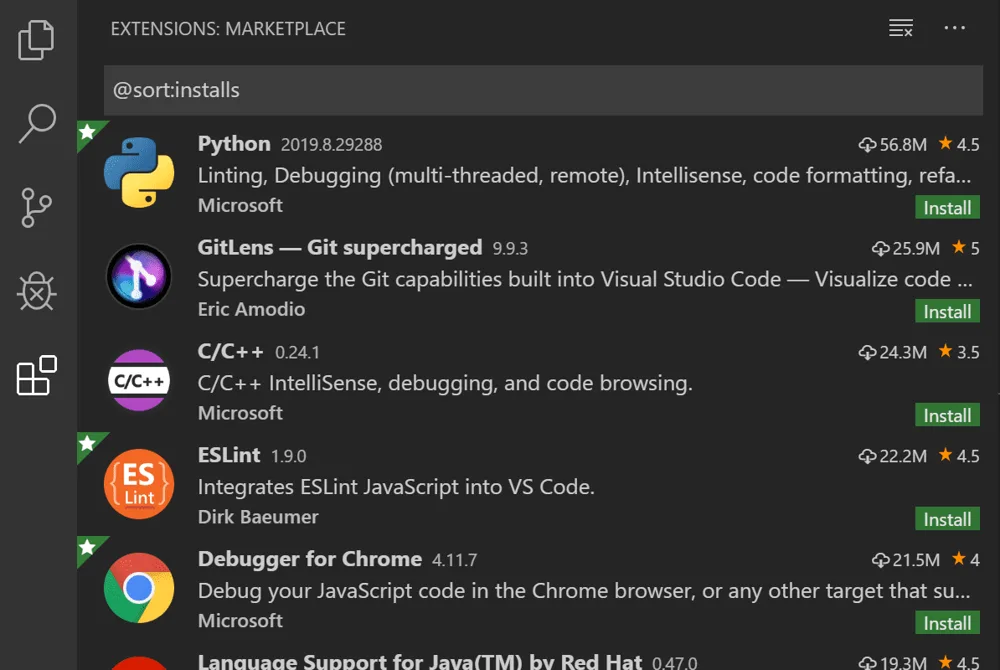
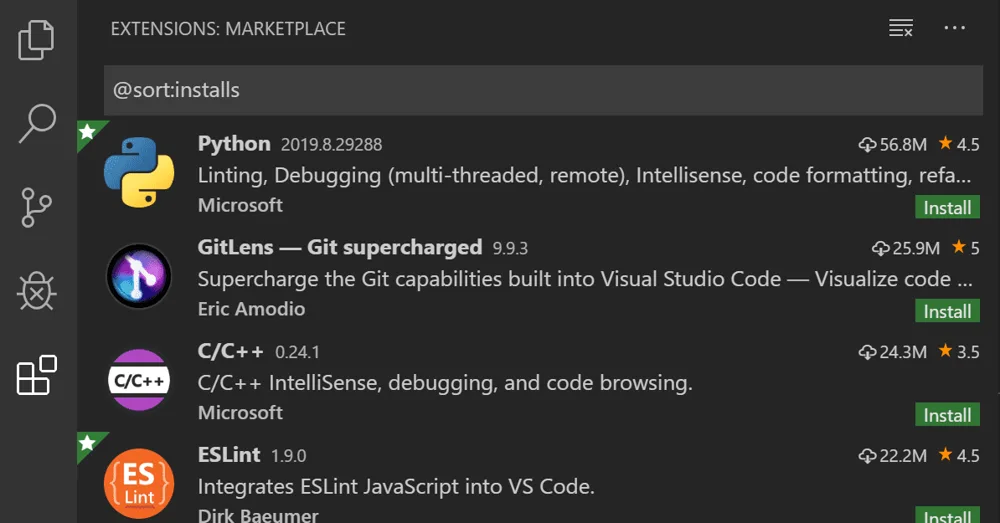
1-2 VS Code · 확장 장 — 덧붙인 설명 · 그림 설명줄 걷어냄, 카드는 이름 · 핵심어만

diff --git a/docs/1-2-setup.html b/docs/1-2-setup.html
@@ -1059,7 +1059,7 @@
   <div class="eyebrow"><span class="tag">1-2</span></div>
   <h2 class="s-title sm">VS Code</h2>
   <div class="rule"></div>
-  <div class="body"><div class="mid"><div class="twocol v1vsgrid"><div><figure class="v1an"><div class="v1anw"><img src="img/vscode_overview.webp" alt="VS Code 화면"/><div class="v1anb" style="--d:0.4s; left:4.1%; top:4.5%; width:14.9%; height:92%"><em>①</em><span>탐색기</span></div><div class="v1anb" style="--d:1.1s; left:19.1%; top:4.5%; width:58%; height:65%"><em>②</em><span>편집기</span></div><div class="v1anb" style="--d:1.8s; left:19.1%; top:69.8%; width:58%; height:27.5%"><em>③</em><span>터미널</span></div><div class="v1anb" style="--d:2.5s; left:77.4%; top:4.5%; width:22.4%; height:92.8%"><em>④</em><span>AI 대화</span></div></div><figcaption>VS Code 화면 · 공식 문서</figcaption></figure></div><div><div class="v2tiles c1"><div class="v2tile" style="--d:0.00s"><b>VS Code</b><span>Microsoft 의 무료 코드 편집기</span></div><div class="v2tile" style="--d:0.08s"><b>① 탐색기</b><span>폴더 안 파일 목록</span></div><div class="v2tile" style="--d:0.16s"><b>② 편집기</b><span>파일 내용 보기 · 고치기</span></div><div class="v2tile" style="--d:0.24s"><b>③ 터미널</b><span>글자 명령으로 컴퓨터를 다루는 창</span></div><div class="v2tile" style="--d:0.32s"><b>④ AI 대화 패널</b><span>Claude Code 확장 설치 뒤 여기서 대화</span></div></div></div></div><div class="src">출처 · <a href="https://github.com/microsoft/vscode-docs" target="_blank" rel="noopener">그림 · VS Code 문서 (Microsoft) · CC BY 3.0</a></div></div></div>
+  <div class="body"><div class="mid"><div class="twocol v1vsgrid"><div><figure class="v1an"><div class="v1anw"><img src="img/vscode_overview.webp" alt="VS Code 화면"/><div class="v1anb" style="--d:0.4s; left:4.1%; top:4.5%; width:14.9%; height:92%"><em>①</em><span>탐색기</span></div><div class="v1anb" style="--d:1.1s; left:19.1%; top:4.5%; width:58%; height:65%"><em>②</em><span>편집기</span></div><div class="v1anb" style="--d:1.8s; left:19.1%; top:69.8%; width:58%; height:27.5%"><em>③</em><span>터미널</span></div><div class="v1anb" style="--d:2.5s; left:77.4%; top:4.5%; width:22.4%; height:92.8%"><em>④</em><span>AI 대화</span></div></div></figure></div><div><div class="v2tiles c1"><div class="v2tile" style="--d:0.00s"><b>① 탐색기</b><span>파일 목록</span></div><div class="v2tile" style="--d:0.08s"><b>② 편집기</b><span>파일 내용</span></div><div class="v2tile" style="--d:0.16s"><b>③ 터미널</b><span>명령어 창</span></div><div class="v2tile" style="--d:0.24s"><b>④ AI 대화</b><span>Claude Code 패널</span></div></div></div></div><div class="src">출처 · <a href="https://github.com/microsoft/vscode-docs" target="_blank" rel="noopener">그림 · VS Code 문서 (Microsoft) · CC BY 3.0</a></div></div></div>
 </section>
 
 <section class="slide lt" data-title="확장 프로그램">
@@ -1067,7 +1067,7 @@
   <div class="eyebrow"><span class="tag">1-2</span></div>
   <h2 class="s-title sm">확장 프로그램</h2>
   <div class="rule"></div>
-  <div class="body"><div class="mid"><div class="twocol v1vsgrid"><div><figure class="v1an"><div class="v1anw"><img src="img/vscode_ext_list.webp" alt="Marketplace 확장 목록"/><div class="v1anb" style="--d:0.4s; left:10.5%; top:9.7%; width:88%; height:7.5%"><em>①</em><span>검색</span></div><div class="v1anb" style="--d:1.1s; left:9%; top:16.5%; width:82%; height:82%"><em>②</em><span>확장 목록</span></div><div class="v1anb" style="--d:1.8s; left:91%; top:28.5%; width:8%; height:66%"><em>③</em><span>Install</span></div></div><figcaption>확장 보기 · Marketplace 목록</figcaption></figure></div><div><div class="v2ms"><div class="v2mh"><span>비유</span><i></i><span>VS Code</span></div><div class="v2m" style="--d:0.00s"><div class="a">휴대폰</div><i>→</i><div class="b"><b>VS Code</b><small>기본 기능만 든 상태</small></div></div><div class="v2m" style="--d:0.12s"><div class="a">앱 스토어</div><i>→</i><div class="b"><b>Marketplace</b><small>확장을 찾고 설치하는 곳</small></div></div><div class="v2m" style="--d:0.24s"><div class="a">앱</div><i>→</i><div class="b"><b>확장 프로그램</b><small>언어 · 디버거 · 도구를 더함</small></div></div></div></div></div><div class="dbnote"><span>Claude Code 확장</span> VS Code 안에 Claude Code 대화 패널을 더함 · 게시자 Anthropic</div><div class="src">출처 · <a href="https://code.visualstudio.com/docs/getstarted/extensions" target="_blank" rel="noopener">VS Code 문서 · Extensions</a> · <a href="https://github.com/microsoft/vscode-docs" target="_blank" rel="noopener">그림 · VS Code 문서 (Microsoft) · CC BY 3.0</a></div></div></div>
+  <div class="body"><div class="mid"><div class="twocol v1vsgrid"><div><figure class="v1an"><div class="v1anw"><img src="img/vscode_ext_list.webp" alt="Marketplace 확장 목록"/><div class="v1anb" style="--d:0.4s; left:10.5%; top:12.2%; width:88%; height:9.8%"><em>①</em><span>검색</span></div><div class="v1anb" style="--d:1.1s; left:9%; top:23%; width:82%; height:76%"><em>②</em><span>확장 목록</span></div><div class="v1anb" style="--d:1.8s; left:91%; top:36%; width:8%; height:63%"><em>③</em><span>Install</span></div></div></figure></div><div><div class="v2ms"><div class="v2m" style="--d:0.00s"><div class="a">휴대폰</div><i>→</i><div class="b"><b>VS Code</b></div></div><div class="v2m" style="--d:0.12s"><div class="a">앱 스토어</div><i>→</i><div class="b"><b>Marketplace</b></div></div><div class="v2m" style="--d:0.24s"><div class="a">앱</div><i>→</i><div class="b"><b>확장 프로그램</b></div></div></div></div></div><div class="src">출처 · <a href="https://code.visualstudio.com/docs/getstarted/extensions" target="_blank" rel="noopener">VS Code 문서 · Extensions</a> · <a href="https://github.com/microsoft/vscode-docs" target="_blank" rel="noopener">그림 · VS Code 문서 (Microsoft) · CC BY 3.0</a></div></div></div>
 </section>
 
 <section class="slide lt" data-title="Claude Code 확장 설치">
@@ -1075,7 +1075,7 @@
   <div class="eyebrow"><span class="tag">1-2</span></div>
   <h2 class="s-title sm">Claude Code 확장 설치</h2>
   <div class="rule"></div>
-  <div class="body"><div class="mid"><div class="twocol v1vsgrid"><div><figure class="v1an"><div class="v1anw"><img src="img/vscode_ext_install.webp" alt="확장 설치 화면"/><div class="v1anb" style="--d:0.4s; left:0%; top:69%; width:6.8%; height:13%"><em>①</em><span>확장 보기</span></div><div class="v1anb" style="--d:1.1s; left:9.6%; top:22.5%; width:30.4%; height:7.5%"><em>②</em><span>검색</span></div><div class="v1anb" style="--d:1.8s; left:31%; top:45.5%; width:10%; height:8.5%"><em>③</em><span>Install</span></div></div><figcaption>확장 설치 화면 · 예시는 Python 확장 · VS Code 1.94 이상</figcaption></figure></div><div><div class="v2tiles c1"><div class="v2tile" style="--d:0.00s"><b>① 확장 보기 열기</b><span>⇧⌘X · Windows Ctrl+Shift+X</span></div><div class="v2tile" style="--d:0.08s"><b>② 검색</b><span>「Claude Code」 · 게시자 Anthropic</span></div><div class="v2tile" style="--d:0.16s"><b>③ Install</b><span>설치 버튼</span></div><div class="v2tile" style="--d:0.24s"><b>④ Spark 아이콘</b><span>왼쪽 막대 · 패널 열기 · 로그인</span></div></div></div></div><div class="src">출처 · <a href="https://code.claude.com/docs/en/vs-code" target="_blank" rel="noopener">Claude Code 문서 · VS Code</a> · <a href="https://github.com/microsoft/vscode-docs" target="_blank" rel="noopener">그림 · VS Code 문서 (Microsoft) · CC BY 3.0</a></div></div></div>
+  <div class="body"><div class="mid"><div class="twocol v1vsgrid"><div><figure class="v1an"><div class="v1anw"><img src="img/vscode_ext_install.webp" alt="확장 설치 화면"/><div class="v1anb" style="--d:0.4s; left:0%; top:69%; width:6.8%; height:13%"><em>①</em><span>확장 보기</span></div><div class="v1anb" style="--d:1.1s; left:9.6%; top:22.5%; width:30.4%; height:7.5%"><em>②</em><span>검색</span></div><div class="v1anb" style="--d:1.8s; left:31%; top:45.5%; width:10%; height:8.5%"><em>③</em><span>Install</span></div></div></figure></div><div><div class="v2tiles c1"><div class="v2tile" style="--d:0.00s"><b>① 확장 보기</b><span>⇧⌘X · Ctrl+Shift+X</span></div><div class="v2tile" style="--d:0.08s"><b>② 검색</b><span>Claude Code · Anthropic</span></div><div class="v2tile" style="--d:0.16s"><b>③ Install</b><span>설치</span></div><div class="v2tile" style="--d:0.24s"><b>④ Spark 아이콘</b><span>로그인</span></div></div></div></div><div class="src">출처 · <a href="https://code.claude.com/docs/en/vs-code" target="_blank" rel="noopener">Claude Code 문서 · VS Code</a> · <a href="https://github.com/microsoft/vscode-docs" target="_blank" rel="noopener">그림 · VS Code 문서 (Microsoft) · CC BY 3.0</a></div></div></div>
 </section>
 
 <section class="slide lt" data-title="Claude Code 설치">

diff --git a/src/v1_u2.py b/src/v1_u2.py
@@ -25,7 +25,7 @@ def annot(img, alt, boxes, cap):
     b = "".join(f'<div class="v1anb" style="--d:{.4 + i * .7:.1f}s; left:{l}%; top:{t}%; width:{w}%; height:{h}%">'
                 f'<em>{n}</em><span>{lab}</span></div>' for i, (n, lab, l, t, w, h) in enumerate(boxes))
     return (f'<figure class="v1an"><div class="v1anw"><img src="img/{img}" alt="{alt}"/>{b}</div>'
-            f'<figcaption>{cap}</figcaption></figure>')
+            + (f'<figcaption>{cap}</figcaption>' if cap else '') + '</figure>')
 
 
 def cc_lanes():
@@ -73,24 +73,22 @@ def slides():
               + src(("Claude Code 문서 · platforms", "https://code.claude.com/docs/en/platforms")), T),
         light("VS Code", '<div class="twocol v1vsgrid"><div>' + annot("vscode_overview.webp", "VS Code 화면", [
                   ("①", "탐색기", 4.1, 4.5, 14.9, 92), ("②", "편집기", 19.1, 4.5, 58, 65),
-                  ("③", "터미널", 19.1, 69.8, 58, 27.5), ("④", "AI 대화", 77.4, 4.5, 22.4, 92.8)], "VS Code 화면 · 공식 문서") + "</div><div>"
-              + viz2.tiles([("VS Code", "Microsoft 의 무료 코드 편집기"), ("① 탐색기", "폴더 안 파일 목록"), ("② 편집기", "파일 내용 보기 · 고치기"),
-                            ("③ 터미널", "글자 명령으로 컴퓨터를 다루는 창"), ("④ AI 대화 패널", "Claude Code 확장 설치 뒤 여기서 대화")], 1)
+                  ("③", "터미널", 19.1, 69.8, 58, 27.5), ("④", "AI 대화", 77.4, 4.5, 22.4, 92.8)], "") + "</div><div>"
+              + viz2.tiles([("① 탐색기", "파일 목록"), ("② 편집기", "파일 내용"),
+                            ("③ 터미널", "명령어 창"), ("④ AI 대화", "Claude Code 패널")], 1)
               + "</div></div>"
               + src(VSDOC), T),
         light("확장 프로그램", '<div class="twocol v1vsgrid"><div>' + annot("vscode_ext_list.webp", "Marketplace 확장 목록", [
-                  ("①", "검색", 10.5, 9.7, 88, 7.5), ("②", "확장 목록", 9, 16.5, 82, 82), ("③", "Install", 91, 28.5, 8, 66)],
-                  "확장 보기 · Marketplace 목록") + "</div><div>"
-              + viz2.maprows([("휴대폰", "VS Code", "기본 기능만 든 상태"), ("앱 스토어", "Marketplace", "확장을 찾고 설치하는 곳"),
-                              ("앱", "확장 프로그램", "언어 · 디버거 · 도구를 더함")], "비유", "VS Code")
+                  ("①", "검색", 10.5, 12.2, 88, 9.8), ("②", "확장 목록", 9, 23, 82, 76), ("③", "Install", 91, 36, 8, 63)],
+                  "") + "</div><div>"
+              + viz2.maprows([("휴대폰", "VS Code", ""), ("앱 스토어", "Marketplace", ""), ("앱", "확장 프로그램", "")])
               + "</div></div>"
-              + note("Claude Code 확장", "VS Code 안에 Claude Code 대화 패널을 더함 · 게시자 Anthropic")
               + src(("VS Code 문서 · Extensions", "https://code.visualstudio.com/docs/getstarted/extensions"), VSDOC), T),
         light("Claude Code 확장 설치", '<div class="twocol v1vsgrid"><div>' + annot("vscode_ext_install.webp", "확장 설치 화면", [
                   ("①", "확장 보기", 0, 69, 6.8, 13), ("②", "검색", 9.6, 22.5, 30.4, 7.5), ("③", "Install", 31, 45.5, 10, 8.5)],
-                  "확장 설치 화면 · 예시는 Python 확장 · VS Code 1.94 이상") + "</div><div>"
-              + viz2.tiles([("① 확장 보기 열기", "⇧⌘X · Windows Ctrl+Shift+X"), ("② 검색", "「Claude Code」 · 게시자 Anthropic"),
-                            ("③ Install", "설치 버튼"), ("④ Spark 아이콘", "왼쪽 막대 · 패널 열기 · 로그인")], 1)
+                  "") + "</div><div>"
+              + viz2.tiles([("① 확장 보기", "⇧⌘X · Ctrl+Shift+X"), ("② 검색", "Claude Code · Anthropic"),
+                            ("③ Install", "설치"), ("④ Spark 아이콘", "로그인")], 1)
               + "</div></div>"
               + src(("Claude Code 문서 · VS Code", "https://code.claude.com/docs/en/vs-code"), VSDOC), T),
         light("Claude Code 설치", '<div class="twocol"><div>'
